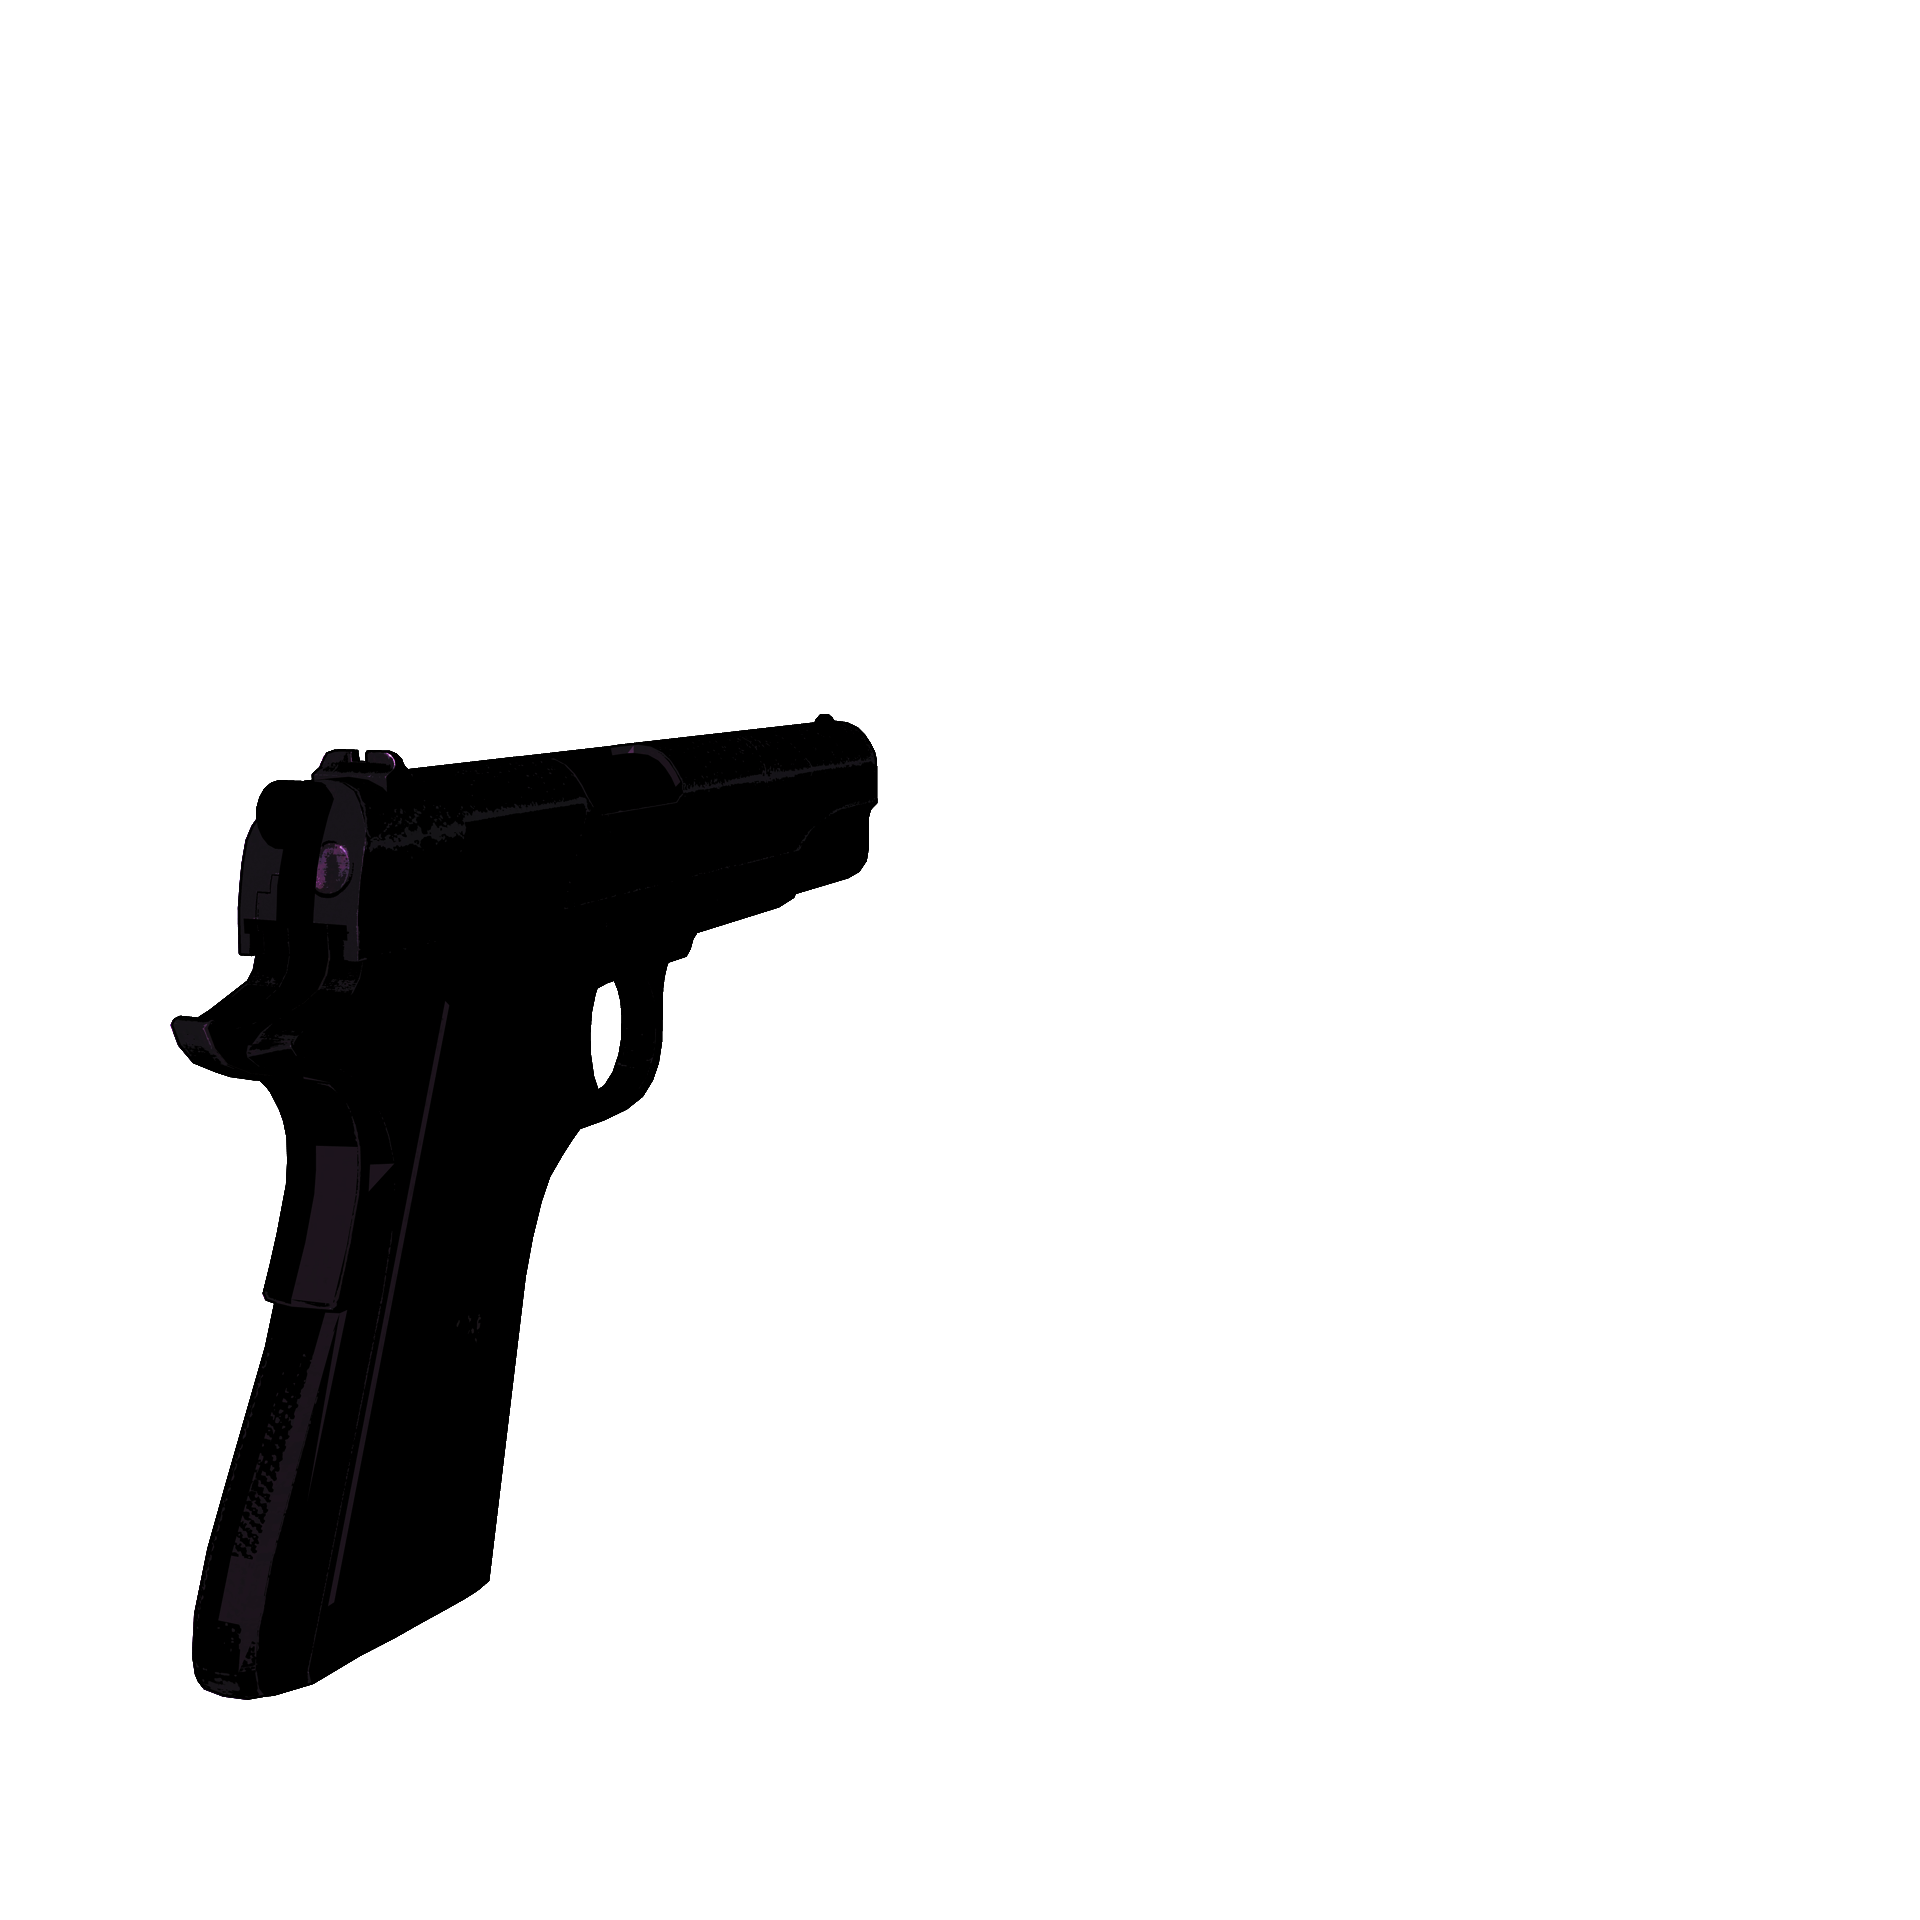
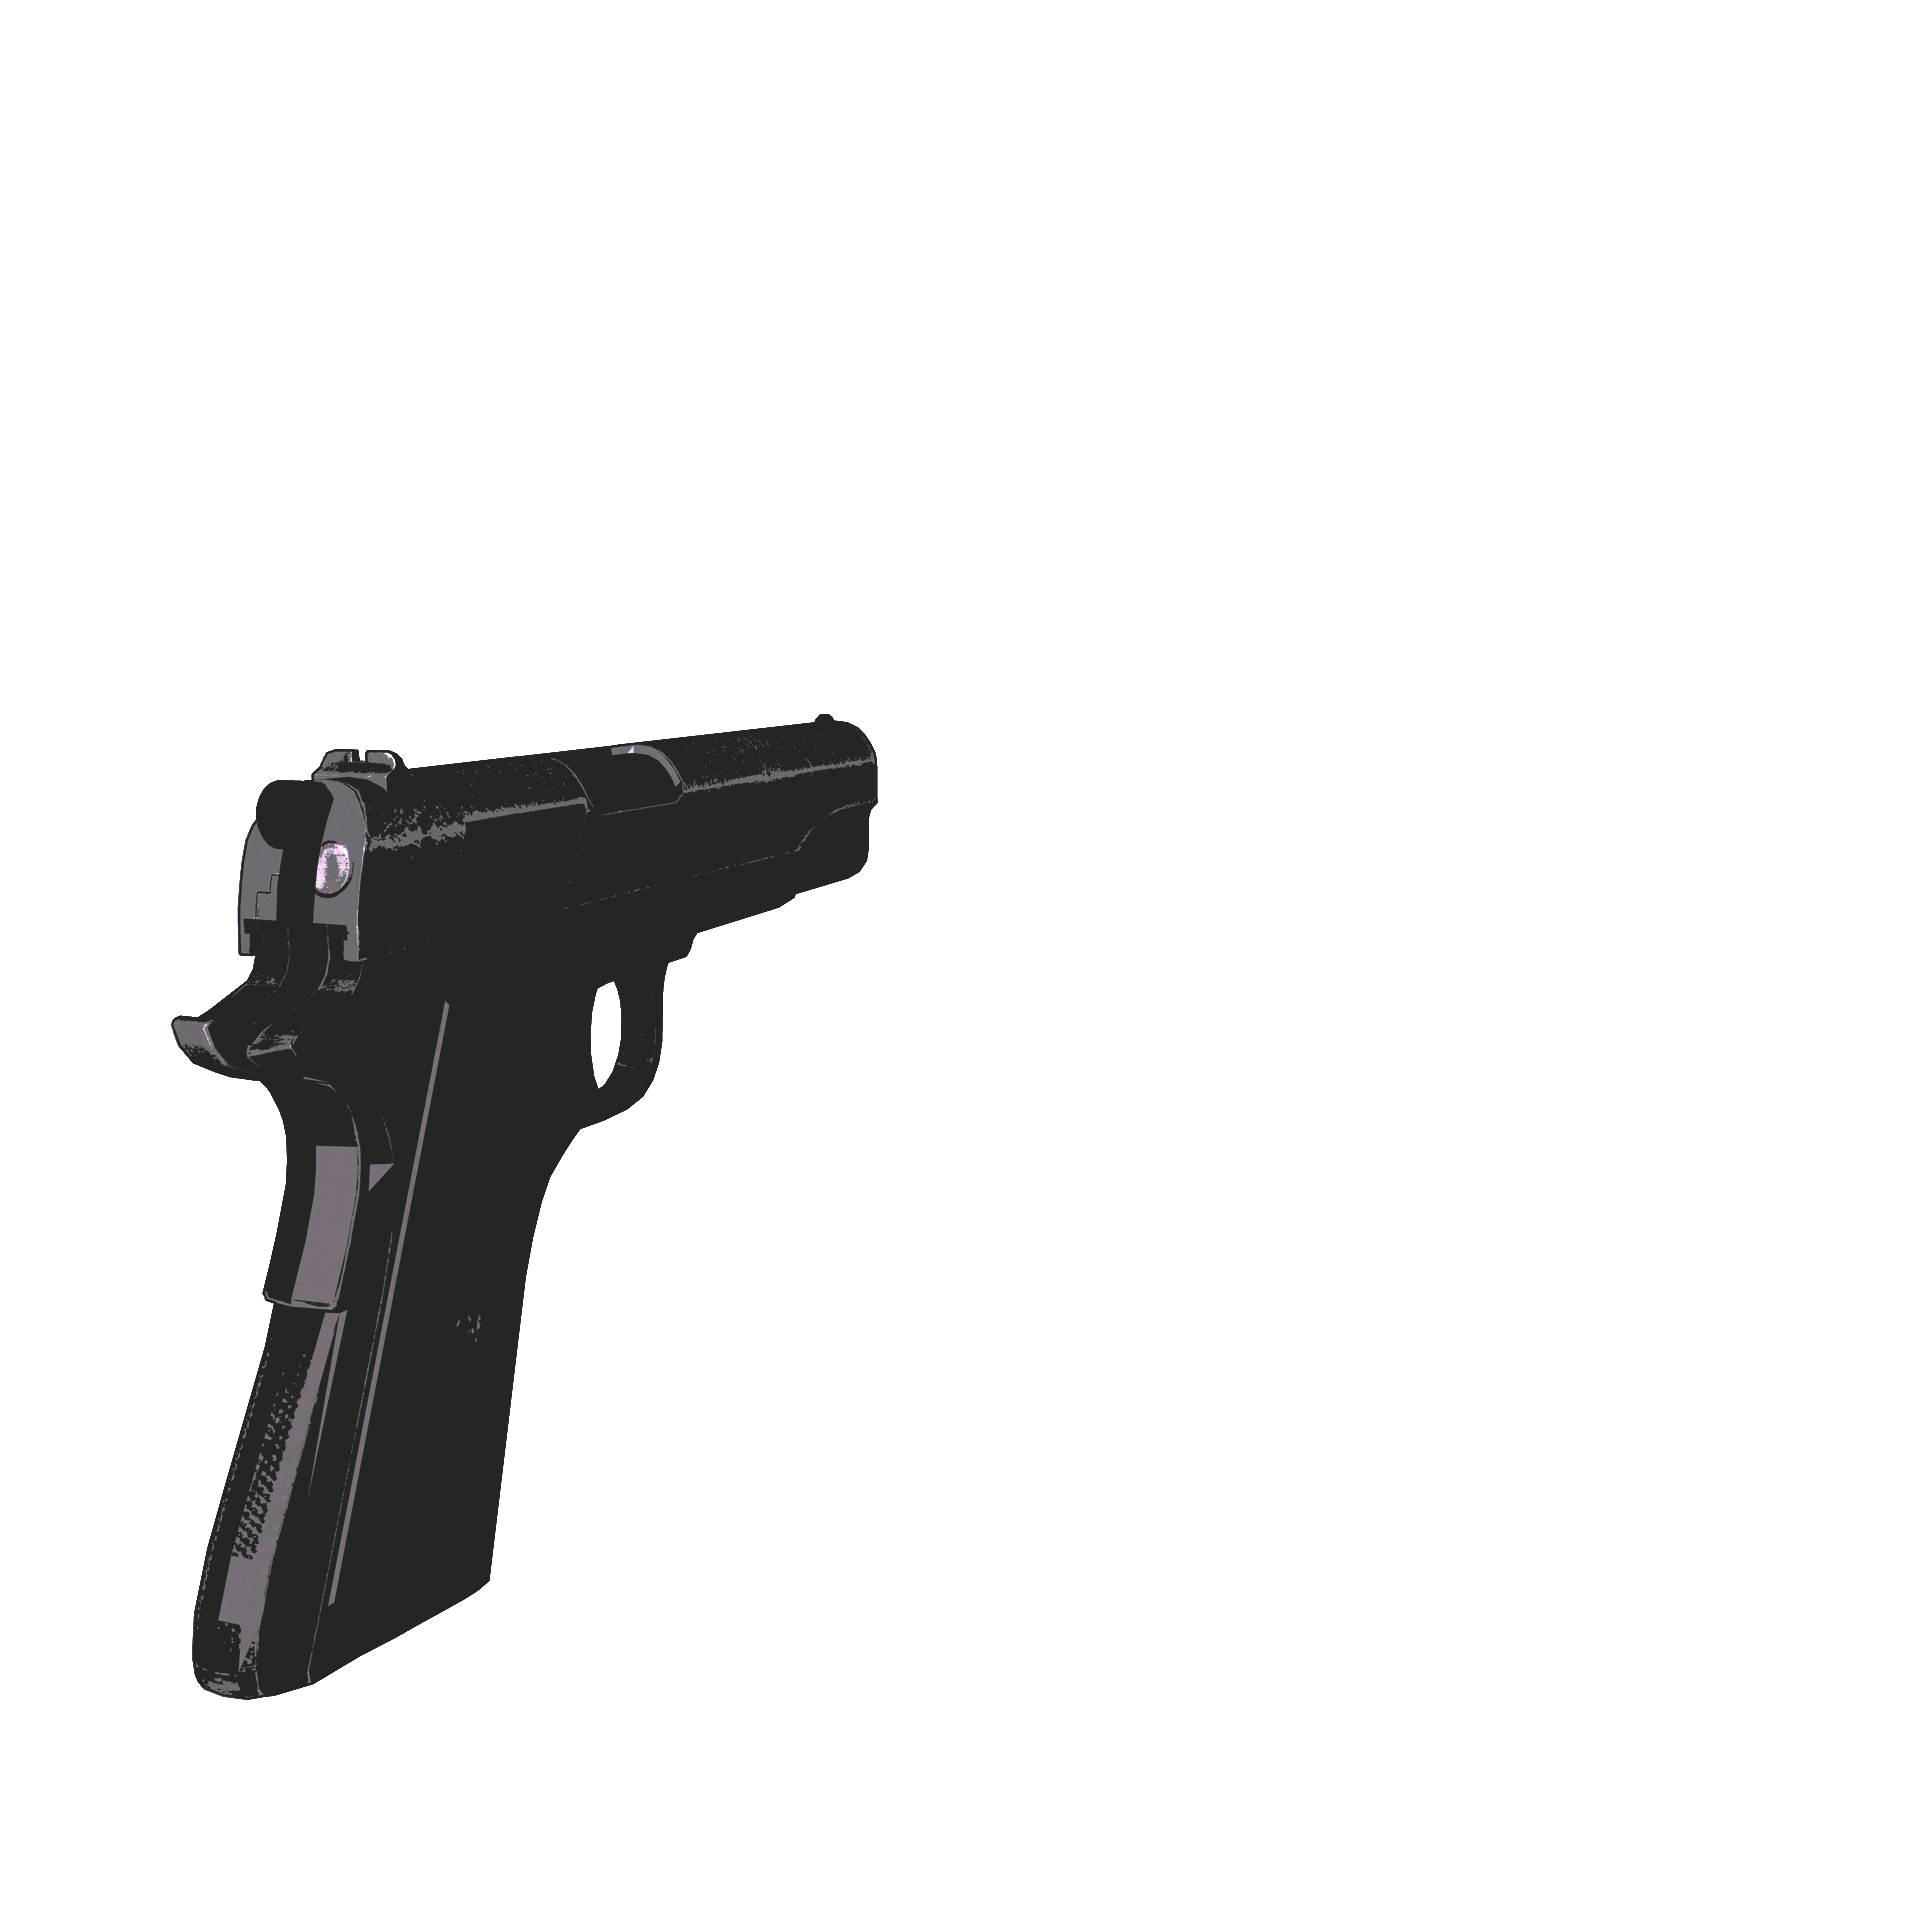
Add FPS counter and fix bullet holes

Changed region(s): [[0.0938, 0.375, 0.4688, 0.9062]]

diff --git a/src/Game.java b/src/Game.java
@@ -37,10 +37,9 @@ public class Game {
 
     public void doInitialize() {
         /* Create the window */
-        window.create(new VideoMode(windowDimensions.x,windowDimensions.y), windowTitle, WindowStyle.FULLSCREEN);
+        window.create(VideoMode.getDesktopMode(), windowTitle, WindowStyle.FULLSCREEN);
         /* We don't want an annoying mouse cursor now, do we? */
         window.setMouseCursorVisible(false);
-        window.setFramerateLimit(60);
         window.setVerticalSyncEnabled(true);
         /* TODO: I'll eventually use a text parser for this =3= */
         Map.loadMap(
@@ -141,16 +140,18 @@ public class Game {
         if (windowFocus) {
             /* Move the player in the desired direction */
             if (Keyboard.isKeyPressed(Key.W)) {
-                player.moveForward(1);
+                player.setForwardDir(1);
+            } else if (Keyboard.isKeyPressed(Key.S)) {
+                player.setForwardDir(-1);
+            } else {
+                player.setForwardDir(0);
             }
             if (Keyboard.isKeyPressed(Key.A)) {
-                player.moveSideways(1);
-            }
-            if (Keyboard.isKeyPressed(Key.S)) {
-                player.moveForward(-1);
-            }
-            if (Keyboard.isKeyPressed(Key.D)) {
-                player.moveSideways(-1);
+                player.setSidewaysDir(1);
+            } else if (Keyboard.isKeyPressed(Key.D)) {
+                player.setSidewaysDir(-1);
+            } else {
+                player.setSidewaysDir(0);
             }
         }
         if (windowFocus) {
@@ -163,13 +164,16 @@ public class Game {
             /* Rotate the camera by the buffered mouse movement */
             player.rotateCamera((float) mouseMovement.x / 10);
             player.tiltCamera((float) -mouseMovement.y / 10);
+            WeaponHandler.getCurrentWeapon().setPitchOffset((int)(mouseMovement.x/5));
+            WeaponHandler.getCurrentWeapon().setYawOffset((int)(mouseMovement.y/5));
             /* Set the current mouse position to the center so the mouse doesn't go off the edge */
             Mouse.setPosition(lastMousePosition);
         }
     }
 
     public void doLogic() {
-
+        player.update();
+        WeaponHandler.getCurrentWeapon().update();
     }
 
     public void doRender() {
@@ -184,12 +188,13 @@ public class Game {
         doInitialize();
         float SECONDS_PER_UPDATE = 1 / 60f;
         Clock updateClock = new Clock();
-        Clock testClock = new Clock();
-        float nextTime = updateClock.getElapsedTime().asSeconds();
-        float lagTime = 0;
+        float lagTime = 0f;
+        float frameTime = 0f;
+        int framesDrawn = 0;
         while (window.isOpen()) {
             float elapsedTime = updateClock.restart().asSeconds();
             lagTime += elapsedTime;
+            frameTime += elapsedTime;
 
             doInput();
 
@@ -197,12 +202,15 @@ public class Game {
                 doLogic();
                 lagTime -= SECONDS_PER_UPDATE;
             }
-            testClock.restart();
+
             doRender();
-            //System.out.println(testClock.getElapsedTime().asSeconds());
-            float extrapolation = lagTime / SECONDS_PER_UPDATE;
-            //player.setMoveSpeed(playerSpeed + (playerSpeed * extrapolation));
-            //player.setRotSpeed(cameraSpeed + (cameraSpeed * extrapolation));
+            framesDrawn++;
+
+            if (frameTime >= 1f) {
+                System.out.println("FPS: " + (int)(framesDrawn/frameTime));
+                framesDrawn = 0;
+                frameTime = 0f;
+            }
         }
     }
 

diff --git a/src/Renderer.java b/src/Renderer.java
@@ -47,7 +47,7 @@ public class Renderer implements Drawable {
                 /* Where the line ends on the screen */
                 int wallBottom = lineHeight / 2 + h / 2 - yaw;
                 /* The offset of color depending on how far the player is */
-                float colorOff = (float) Math.pow(cast.getLength()/1.5, 0.8);
+                float colorOff = (float) Math.pow(cast.getLength()/1.5, 0.5);
                 /* The current ambient color of the line */
                 Color wallColor = new Color((int) (255 / colorOff), (int) (255 / colorOff), (int) (255 / colorOff));
                 /* Create a new sprite for the line */
@@ -64,26 +64,16 @@ public class Renderer implements Drawable {
                 wallSprite.draw(target, states);
                 for (int i = 0; i < Map.getHitPositions().size(); i++) {
                     Vector3f data = Map.getHitPositions().get(i);
-                    if (cast.getSide() == 1 && Math.floor(cast.getExactHit().y) == Math.floor(data.y)) {
-                        float hitPosition = (cast.getExactHit().x - data.x) * 10;
-                        if (cast.getExactHit().x > data.x && hitPosition > 0 && hitPosition < 1) {
+                    int side = Map.getHitSides().get(i);
+                    float hitSide = cast.getSide() == 1 ? cast.getExactHit().x : cast.getExactHit().y;
+                    float dataSide = cast.getSide() == 1 ? data.x : data.y;
+                    float opHitSide = cast.getSide() == 0 ? cast.getExactHit().x : cast.getExactHit().y;
+                    float opDataSide = cast.getSide() == 0 ? data.x : data.y;
+                    if ((int)hitSide == (int)dataSide && side == cast.getSide()) {
+                        System.out.println(cast.getExactHit() + " " + data + " " + (opHitSide - opDataSide));
+                        float hitPosition = (hitSide - dataSide) * 10;
+                        if (hitSide > dataSide && hitPosition > 0 && hitPosition < 1) {
                             Texture hitTexture = Map.getHitTextures().get(i);
-                            System.out.println(hitPosition);
-                            Sprite hitSprite = new Sprite();
-                            hitSprite.setTexture(hitTexture);
-                            hitSprite.setTextureRect(
-                                    new IntRect((int) (hitPosition * (float) hitTexture.getSize().x), 0, 1, 4)
-                            );
-                            hitSprite.setScale(new Vector2f(1, lineHeight / 10 / (float) hitTexture.getSize().y));
-                            hitSprite.setPosition(x, h / 2 + (int) (data.z * (h / 2)) - yaw);
-                            hitSprite.setPosition(x, wallTop + (int) ((data.z + 1)/2 * lineHeight));
-                            hitSprite.draw(target, states);
-                        }
-                    } else if (cast.getSide() == 0 && Math.floor(cast.getExactHit().x) == Math.floor(data.x)) {
-                        float hitPosition = (cast.getExactHit().y - data.y) * 10;
-                        if (cast.getExactHit().y > data.y && hitPosition > 0 && hitPosition < 1) {
-                            Texture hitTexture = Map.getHitTextures().get(i);
-                            System.out.println(hitPosition);
                             Sprite hitSprite = new Sprite();
                             hitSprite.setTexture(hitTexture);
                             hitSprite.setTextureRect(

diff --git a/src/Weapon.java b/src/Weapon.java
@@ -14,6 +14,8 @@ public class Weapon implements Drawable {
     Texture baseTexture = new Texture();
     ArrayList<Texture> renderQueue = new ArrayList<Texture>();
     ArrayList<Texture> fireTextures = new ArrayList<Texture>();
+    private int xOffset = 0;
+    private int yOffset = 0;
     public Weapon(String name, Player p) {
         weaponName = name;
         player = p;
@@ -53,23 +55,44 @@ public class Weapon implements Drawable {
         boolean hitObject = cast.calculateRay();
         if (hitObject) {
             Vector3f hitPosition = new Vector3f(cast.getExactHit().x, cast.getExactHit().y, player.getYaw());
-            Map.addHitPosition(hitPosition, TextureHandler.getHitTextures()[1+(int)(Math.random()*4)]);
+            Map.addHitPosition(hitPosition, TextureHandler.getHitTextures()[1+(int)(Math.random()*4)], cast.getSide());
         }
     }
     public void draw(RenderTarget target, RenderStates states) {
+        int o = Math.max((int)((player.getDirection().x + 0.5) * 1000f), 100);
+        Color weaponColor = new Color(o,o,o);
         if (renderQueue.size() > 0) {
             weaponSprite.setTexture(renderQueue.get(0));
-            renderQueue.remove(0);
+            //renderQueue.remove(0);
         } else {
             weaponSprite.setTexture(baseTexture);
         }
         Vector2i spriteSize = weaponSprite.getTexture().getSize();
+        Vector2i windowDim = WeaponHandler.getWindowDimensions();
         weaponSprite.setTextureRect(
                 new IntRect(0, 0, spriteSize.x, spriteSize.y)
         );
-        float sizeRatio = WeaponHandler.getWindowDimensions().x/(float)spriteSize.x/1.25f;
+        weaponSprite.setColor(weaponColor);
+        float sizeRatio = windowDim.y/(float)spriteSize.y*2f;
+        System.out.println(sizeRatio);
         weaponSprite.setScale(new Vector2f(sizeRatio, sizeRatio));
-        weaponSprite.setPosition(0, WeaponHandler.getWindowDimensions().y - (spriteSize.x/1.25f * sizeRatio));
+        weaponSprite.setPosition(
+                xOffset + windowDim.x/2 - (sizeRatio * spriteSize.x)/3,
+                yOffset + windowDim.y/2 - (sizeRatio * spriteSize.y)/4
+        );
         weaponSprite.draw(target, states);
+    }
+    public void update() {
+        if (renderQueue.size() > 0) {
+            renderQueue.remove(0);
+        }
+    }
+
+    public void setPitchOffset(int x) {
+        this.xOffset = (int)(Arithmetic.lerp(xOffset, x, 0.5f));
+    }
+
+    public void setYawOffset(int y) {
+        this.yOffset = (int)(Arithmetic.lerp(yOffset, y, 0.5f));
     }
 }

diff --git a/src/Map.java b/src/Map.java
@@ -9,6 +9,7 @@ public class Map {
     private static int[][] currentMap;
     private static ArrayList<Vector3f> hitPositions;
     private static ArrayList<Texture> hitTextures;
+    private static ArrayList<Integer> hitSides;
     /* The current floor texture */
     private static Texture floorTexture;
     /* Load the grid map */
@@ -16,10 +17,12 @@ public class Map {
         currentMap = m;
         hitPositions = new ArrayList<Vector3f>();
         hitTextures = new ArrayList<Texture>();
+        hitSides = new ArrayList<Integer>();
     }
-    public static void addHitPosition(Vector3f data, Texture t) {
+    public static void addHitPosition(Vector3f data, Texture t, int side) {
         hitPositions.add(data);
         hitTextures.add(t);
+        hitSides.add(side);
     }
     public static ArrayList<Vector3f> getHitPositions() {
         return hitPositions;
@@ -27,6 +30,7 @@ public class Map {
     public static ArrayList<Texture> getHitTextures() {
         return hitTextures;
     }
+    public static ArrayList<Integer> getHitSides() { return hitSides; }
     /* Get the grid map */
     public static int[][] getCurrentMap() {
         return currentMap;

diff --git a/src/Player.java b/src/Player.java
@@ -13,6 +13,8 @@ public class Player {
     private float moveSpeed = 0;
     /* How fast the camera moves */
     private float rotSpeed = 0;
+    private float forwardDir = 0;
+    private float sidewaysDir = 0;
     public Player() {}
     public void moveForward(float dir) {
         /* If the position isn't occupied, set the player's position by direction */
@@ -78,5 +80,18 @@ public class Player {
     }
     public float getYaw() {
         return yaw;
+    }
+
+    public void setSidewaysDir(float sidewaysDir) {
+        this.sidewaysDir = sidewaysDir;
+    }
+
+    public void setForwardDir(float forwardDir) {
+        this.forwardDir = forwardDir;
+    }
+
+    public void update() {
+        moveForward(forwardDir);
+        moveSideways(sidewaysDir);
     }
 }

diff --git a/src/Arithmetic.java b/src/Arithmetic.java
@@ -17,4 +17,7 @@ public class Arithmetic {
             }
         }
     }
+    public static float lerp(float x1, float x2, float m) {
+        return  x1 + m * (x2 - x1);
+    }
 }
